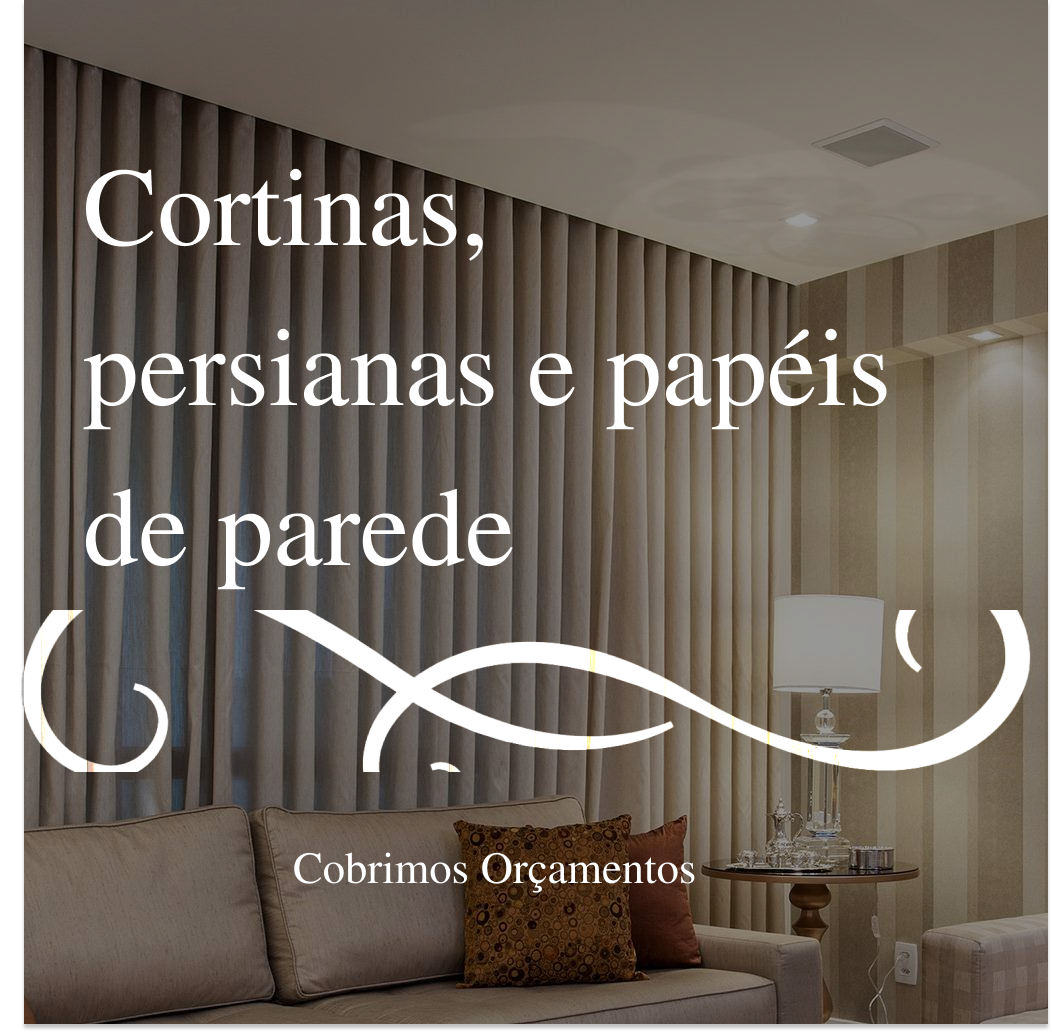
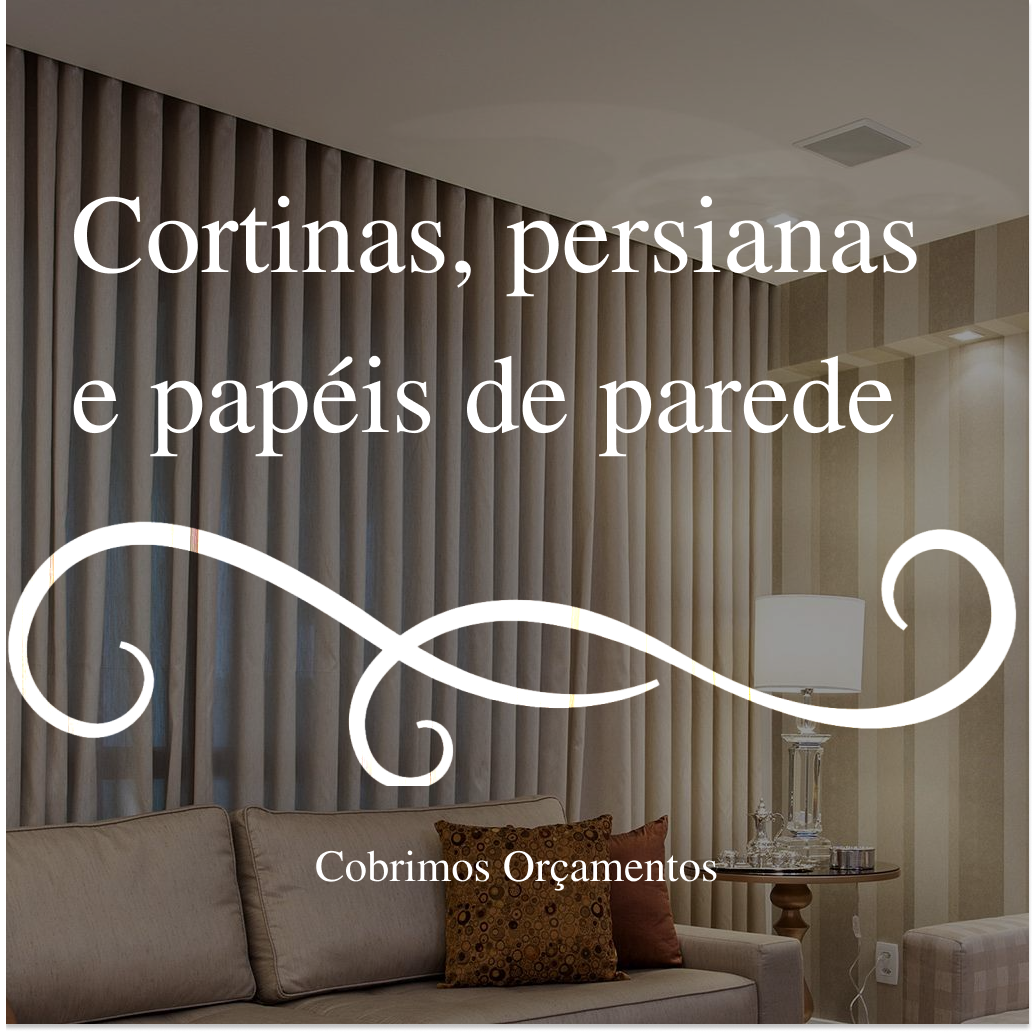
responsividade

diff --git a/css/main.css b/css/main.css
@@ -1,46 +1,65 @@
 @import url('https://fonts.googleapis.com/css2?family=Metal&display=swap');
-@media screen and (min-width: 0px) and (max-width: 669px) {
+
+
+@media screen and (min-width: 0px) and (max-width: 309px) {
 
 .imgLogoMobile{
     max-width: 100%;
+    display: block;
+    margin: auto;
 }
 
 .imgLogo{
     display: none;
 }
 
-.divHeader{
-    margin-left: 1em;
-    display: flex;
-    flex-direction: row;
-}
-
-header h1{
+.h1HeaderDesktop{
     display: none;
 
 }
-header h2{
+
+.h1Header{
+    text-align: center;
     color: #D4A311;
     font-family: 'Metal', cursive;
-    text-align: center;
-    margin-left: 2em;
-    margin-top: 1.5em;
-    max-width: 100%;
-
-}
-
-.divFotoIntro{
-    margin-top: 2em;
-    
 }
 
 .imgIntro{
     width: 100%;
+    margin-top: 1em;
+  }
+    
+}
+@media screen and (min-width: 310px) and (max-width: 699px) {
 
+.imgLogoMobile{
+    max-width: 100%;
+    float: left;
 }
 
-.divFotoIntro section{
-    
+.imgLogo{
+    display: none;
+}
+
+
+.h1HeaderDesktop{
+    display: none;
+
+}
+.h1Header{
+    color: #D4A311;
+    font-family: 'Metal', cursive;
+}
+
+.imgIntro{
+  width: 100%;
+  margin-top: 1em;
+}
+
+.titulo{
+    display: flex;
+    flex-direction: row;
+    justify-content: center;
 }
 
 }

diff --git a/index.html b/index.html
@@ -5,7 +5,7 @@
     <meta http-equiv='X-UA-Compatible' content='IE=edge'>
     <title>Casa Criativa</title>
     <meta name='viewport' content='width=device-width, initial-scale=1'>
-    <link rel='stylesheet' type='text/css' media='screen' href='./css/main.css'>
+    <link rel='stylesheet' type='text/css' media='screen' href='/css/main.css'>
     <script src='main.js'></script>
 </head>
 <body>
@@ -14,22 +14,25 @@
     <header>
         <div class="divHeader">
 
-        <img src="./imagens/logo_cc.png" class="imgLogo"/>
-        <img src="./imagens/logo_mobile3.png" class="imgLogoMobile"/>
+        <img src="/imagens/logo_cc.png" class="imgLogo"/>
+        <img src="/imagens/logo_mobile3.png" class="imgLogoMobile"/>
 
-        <h1>Casa <br> Criativa</h1>
-        <h2>Casa Criativa</h2>
+
+        <div class="titulo"><h1 class="h1Header">Casa Criativa</h1></div>
+            
+        </div>
+    
     </div>
       
     </header>
 
-    <div class="divFotoIntro">
-        <img src="./imagens/foto_header.png" class="imgIntro"/>
-
-    </div>
+   
 
     <main>
-
+        <div class="divFotoIntro">
+            <img src="/imagens/foto_header.png" class="imgIntro"/>
+    
+        </div>
 
     </main>
 
